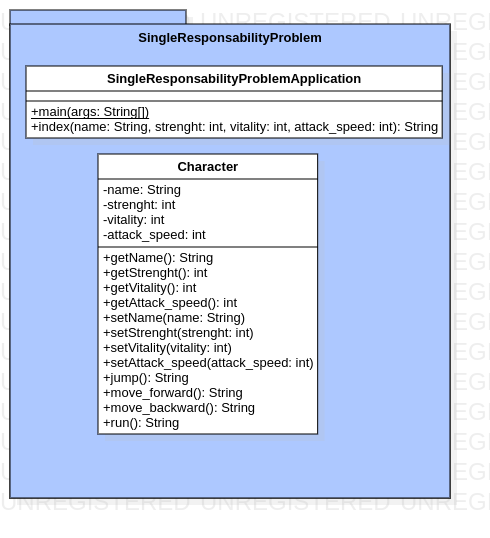
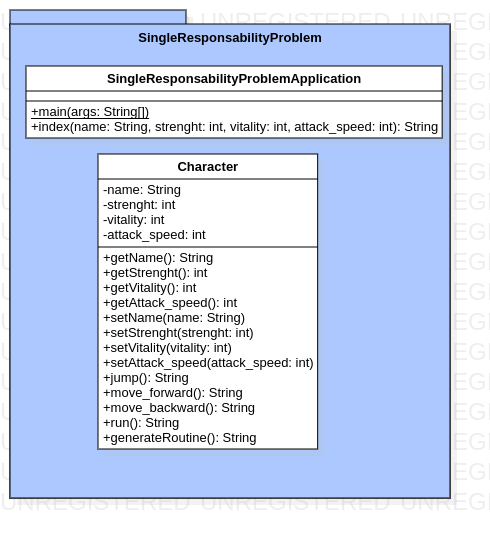
Se han realizado corrección a los archivos java y a los diagramas

Changed region(s): [[0.1837, 0.803, 0.6735, 0.8625]]

diff --git a/SingleResponsabilityProblem/src/main/java/gt/edu/umg/single_responsability_problem/Character.java b/SingleResponsabilityProblem/src/main/java/gt/edu/umg/single_responsability_problem/Character.java
@@ -1,17 +1,9 @@
-package gt.edu.umg.SingleResponsabilityProblem;
-
-import java.util.*;
+package gt.edu.umg.single_responsability_problem;
 
 /**
  * 
  */
 public class Character {
-
-    /**
-     * Default constructor
-     */
-    public Character() {
-    }
 
     /**
      * 
@@ -37,7 +29,6 @@ public class Character {
      * @return
      */
     public String getName() {
-        // TODO implement here
         return name;
     }
 
@@ -45,7 +36,6 @@ public class Character {
      * @return
      */
     public int getStrenght() {
-        // TODO implement here
         return strenght;
     }
 
@@ -53,7 +43,6 @@ public class Character {
      * @return
      */
     public int getVitality() {
-        // TODO implement here
         return vitality;
     }
 
@@ -61,7 +50,6 @@ public class Character {
      * @return
      */
     public int getAttack_speed() {
-        // TODO implement here
         return attack_speed;
     }
 
@@ -69,7 +57,6 @@ public class Character {
      * @param name
      */
     public void setName(String name) {
-        // TODO implement here
         this.name = name;
     }
 
@@ -77,7 +64,6 @@ public class Character {
      * @param strenght
      */
     public void setStrenght(int strenght) {
-        // TODO implement here
         this.strenght = strenght;
     }
 
@@ -85,7 +71,6 @@ public class Character {
      * @param vitality
      */
     public void setVitality(int vitality) {
-        // TODO implement here
         this.vitality = vitality;
     }
 
@@ -93,7 +78,6 @@ public class Character {
      * @param attack_speed
      */
     public void setAttack_speed(int attack_speed) {
-        // TODO implement here
         this.attack_speed = attack_speed;
     }
 
@@ -103,7 +87,6 @@ public class Character {
      */
     public String jump() {
         return " is jumping";
-        // TODO implement here
     }
 
     /**
@@ -112,7 +95,6 @@ public class Character {
      */
     public String move_forward() {
         return " is moving forward";
-        // TODO implement here
     }
 
     /**
@@ -121,7 +103,6 @@ public class Character {
      */
     public String move_backward() {
         return " is moving backward";
-        // TODO implement here
     }
 
     /**
@@ -130,7 +111,22 @@ public class Character {
      */
     public String run() {
         return " is running";
-        // TODO implement here
+    }
+    
+    /**
+     * 
+     * @return 
+     */
+    public String generateRoutine(Character npc){
+        String texto="";
+        texto += "NPC: "+npc.getName()+"<br> Strenght: "+npc.getStrenght()+"<br> Vitality: "+npc.getVitality()+
+                "<br> Attack_speed: "+npc.getAttack_speed();
+        
+        texto += "<br>**"+npc.getName()+npc.jump()+"**<br>";
+        texto += "<br>**"+npc.getName()+npc.run()+"**<br>";
+        texto += "<br>**"+npc.getName()+npc.move_backward()+"**<br>";
+        texto += "<br>**"+npc.getName()+npc.move_forward()+"**<br>";
+        return texto;
     }
 
 }

diff --git a/SingleResponsabilityProblem/src/main/java/gt/edu/umg/single_responsability_problem/SingleResponsabilityProblemApplication.java b/SingleResponsabilityProblem/src/main/java/gt/edu/umg/single_responsability_problem/SingleResponsabilityProblemApplication.java
@@ -1,6 +1,5 @@
-package gt.edu.umg.SingleResponsabilityProblem;
+package gt.edu.umg.single_responsability_problem;
 
-import java.util.*;
 import org.springframework.boot.SpringApplication;
 import org.springframework.boot.autoconfigure.SpringBootApplication;
 import org.springframework.web.bind.annotation.RequestMapping;
@@ -16,16 +15,9 @@ import org.springframework.web.bind.annotation.RestController;
 public class SingleResponsabilityProblemApplication {
     
     /**
-     * Default constructor
-     */
-    public SingleResponsabilityProblemApplication() {
-    }
-
-    /**
      * @param args
      */
     public static void main(String[] args) {
-        // TODO implement here
         SpringApplication.run(SingleResponsabilityProblemApplication.class, args);
         
     }
@@ -37,14 +29,11 @@ public class SingleResponsabilityProblemApplication {
      * @param attack_speed
      * @return
      */
-    /* SingleResponsabilityProblemApplication tiene la responsabilidad de interactuar con el usuario y generar los mensajes de la rutina del npc*/
     @RequestMapping("/")
     public String index(@RequestParam(defaultValue = "Mike") String name, 
             @RequestParam(defaultValue = "1") int strenght,
             @RequestParam(defaultValue = "10") int vitality, 
             @RequestParam(defaultValue = "1") int attack_speed){
-        // TODO implement here
-        String texto = new String();
         Character npc = new Character();        
         
         npc.setName(name);
@@ -52,14 +41,7 @@ public class SingleResponsabilityProblemApplication {
         npc.setVitality(vitality);
         npc.setAttack_speed(attack_speed);
         
-        texto += "NPC: "+npc.getName()+"<br> Strenght: "+npc.getStrenght()+"<br> Vitality: "+npc.getVitality()+
-                "<br> Attack_speed: "+npc.getAttack_speed();
-        
-        texto += "<br>**"+npc.getName()+npc.jump()+"**<br>";
-        texto += "<br>**"+npc.getName()+npc.run()+"**<br>";
-        texto += "<br>**"+npc.getName()+npc.move_backward()+"**<br>";
-        texto += "<br>**"+npc.getName()+npc.move_forward()+"**<br>";
-        return texto;
+        return npc.generateRoutine(npc);
     }
 
 }
